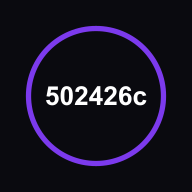
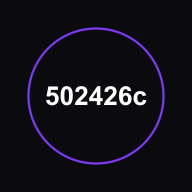
fix: força manifest Cosmos 502426c + ícones sem contorno preto + cache bust v=502426c
selo 502426c; preserva F0-F8, hashes, elos assinados e chave privada

Changed region(s): [[0.125, 0.125, 0.875, 0.875]]

diff --git a/vite.config.ts b/vite.config.ts
@@ -8,6 +8,20 @@ import pacoteZ3 from 'z3-solver/package.json' with { type: 'json' }
 import { PACOTE_COSMOS } from './src/dados/pacoteCosmos.ts'
 
 const VERSAO_Z3 = pacoteZ3.version
+// Não há VitePWA: o manifest canônico é o arquivo público, compartilhado pelos dois nomes.
+const MANIFEST_COSMOS = JSON.parse(readFileSync(new URL('./public/manifest.webmanifest', import.meta.url), 'utf8'))
+
+function conferirManifestCosmos(): Plugin {
+  return {
+    name: 'cosmos-manifest-unico',
+    apply: 'build',
+    buildStart() {
+      const alternativo = JSON.parse(readFileSync(new URL('./public/manifest.json', import.meta.url), 'utf8'))
+      if (JSON.stringify(alternativo) !== JSON.stringify(MANIFEST_COSMOS)) throw new Error('manifest.json diverge do manifest.webmanifest canônico.')
+      if (MANIFEST_COSMOS.name !== 'Cosmos 502426c' || MANIFEST_COSMOS.short_name !== 'Cosmos 502426c' || MANIFEST_COSMOS.id !== '/cosmos/' || MANIFEST_COSMOS.scope !== '/cosmos/' || MANIFEST_COSMOS.start_url !== '/cosmos/#/cadeia') throw new Error('Manifest Cosmos com nome ou caminhos incorretos.')
+    },
+  }
+}
 
 function exportarCosmos(): Plugin {
   return {
@@ -220,7 +234,7 @@ export default defineConfig(({ mode }) => {
   const arquivo = mode === 'arquivo'
   return {
     base: arquivo ? './' : '/cosmos/',
-    plugins: [preact(), avisosDeLicenca(arquivo), ...(arquivo ? [semLinksExternos(), viteSingleFile()] : [exportarCosmos(), serviceWorker()])],
+    plugins: [preact(), conferirManifestCosmos(), avisosDeLicenca(arquivo), ...(arquivo ? [semLinksExternos(), viteSingleFile()] : [exportarCosmos(), serviceWorker()])],
     publicDir: arquivo ? false : 'public',
     server: { headers: ISOLAMENTO },
     preview: { headers: ISOLAMENTO },

diff --git a/index.html b/index.html
@@ -17,7 +17,7 @@
     <link rel="icon" type="image/x-icon" href="./favicon.ico?v=502426c" />
     <link rel="icon" type="image/png" sizes="32x32" href="./favicon-32x32.png?v=502426c" />
     <link rel="apple-touch-icon" sizes="180x180" href="./apple-touch-icon.png?v=502426c" />
-    <link rel="manifest" href="./manifest.webmanifest?v=502426c" />
+    <link rel="manifest" href="/cosmos/manifest.webmanifest?v=502426c" />
   </head>
   <body>
     <div id="app"></div>
